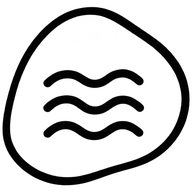
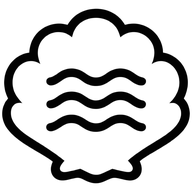
Ocean: scallop shell emblem from Nicole's artwork
Claude-Session: https://claude.ai/code/session_01P3d8ZTZshbTSJw1MMxChow

diff --git a/sw.js b/sw.js
@@ -1,5 +1,5 @@
 /* Offline support. Bump VERSION whenever app files change so installed copies update. */
-var VERSION='gs-v131';
+var VERSION='gs-v132';
 var SHELL=['./','index.html','styles.css','app.js','manifest.webmanifest','icons/icon-192.png','icons/icon-512.png','icons/apple-touch-icon.png','art/library-light.png','art/library-dark.png','art/stroke-long-ink.png','art/stroke-long-gold.png','art/stroke-short-ink.png','art/stroke-short-gold.png','art/stroke-wave-ink.png','art/stroke-wave-gold.png','art/quill-ink.png','art/quill-gold.png','art/birch-trunk.png','art/vine.png','art/gold.png','art/meadow-emb.png','art/seaglass.png','art/sprig-wreath.png','art/libseal.png','art/libseal-hl.png','art/flower-line.png','art/flower-fill.png','art/seal-body.png','art/seal-lines.png','art/seal-shine.png','art/bark.jpg','art/bark-dark.jpg','art/stone.jpg','art/stone-mid.jpg','art/stone-dark.jpg','art/enso.png','art/enso-thin.png','art/blot.png'];
 self.addEventListener('install',function(e){
   e.waitUntil(caches.open(VERSION).then(function(c){return c.addAll(SHELL)}).then(function(){return self.skipWaiting()}));
